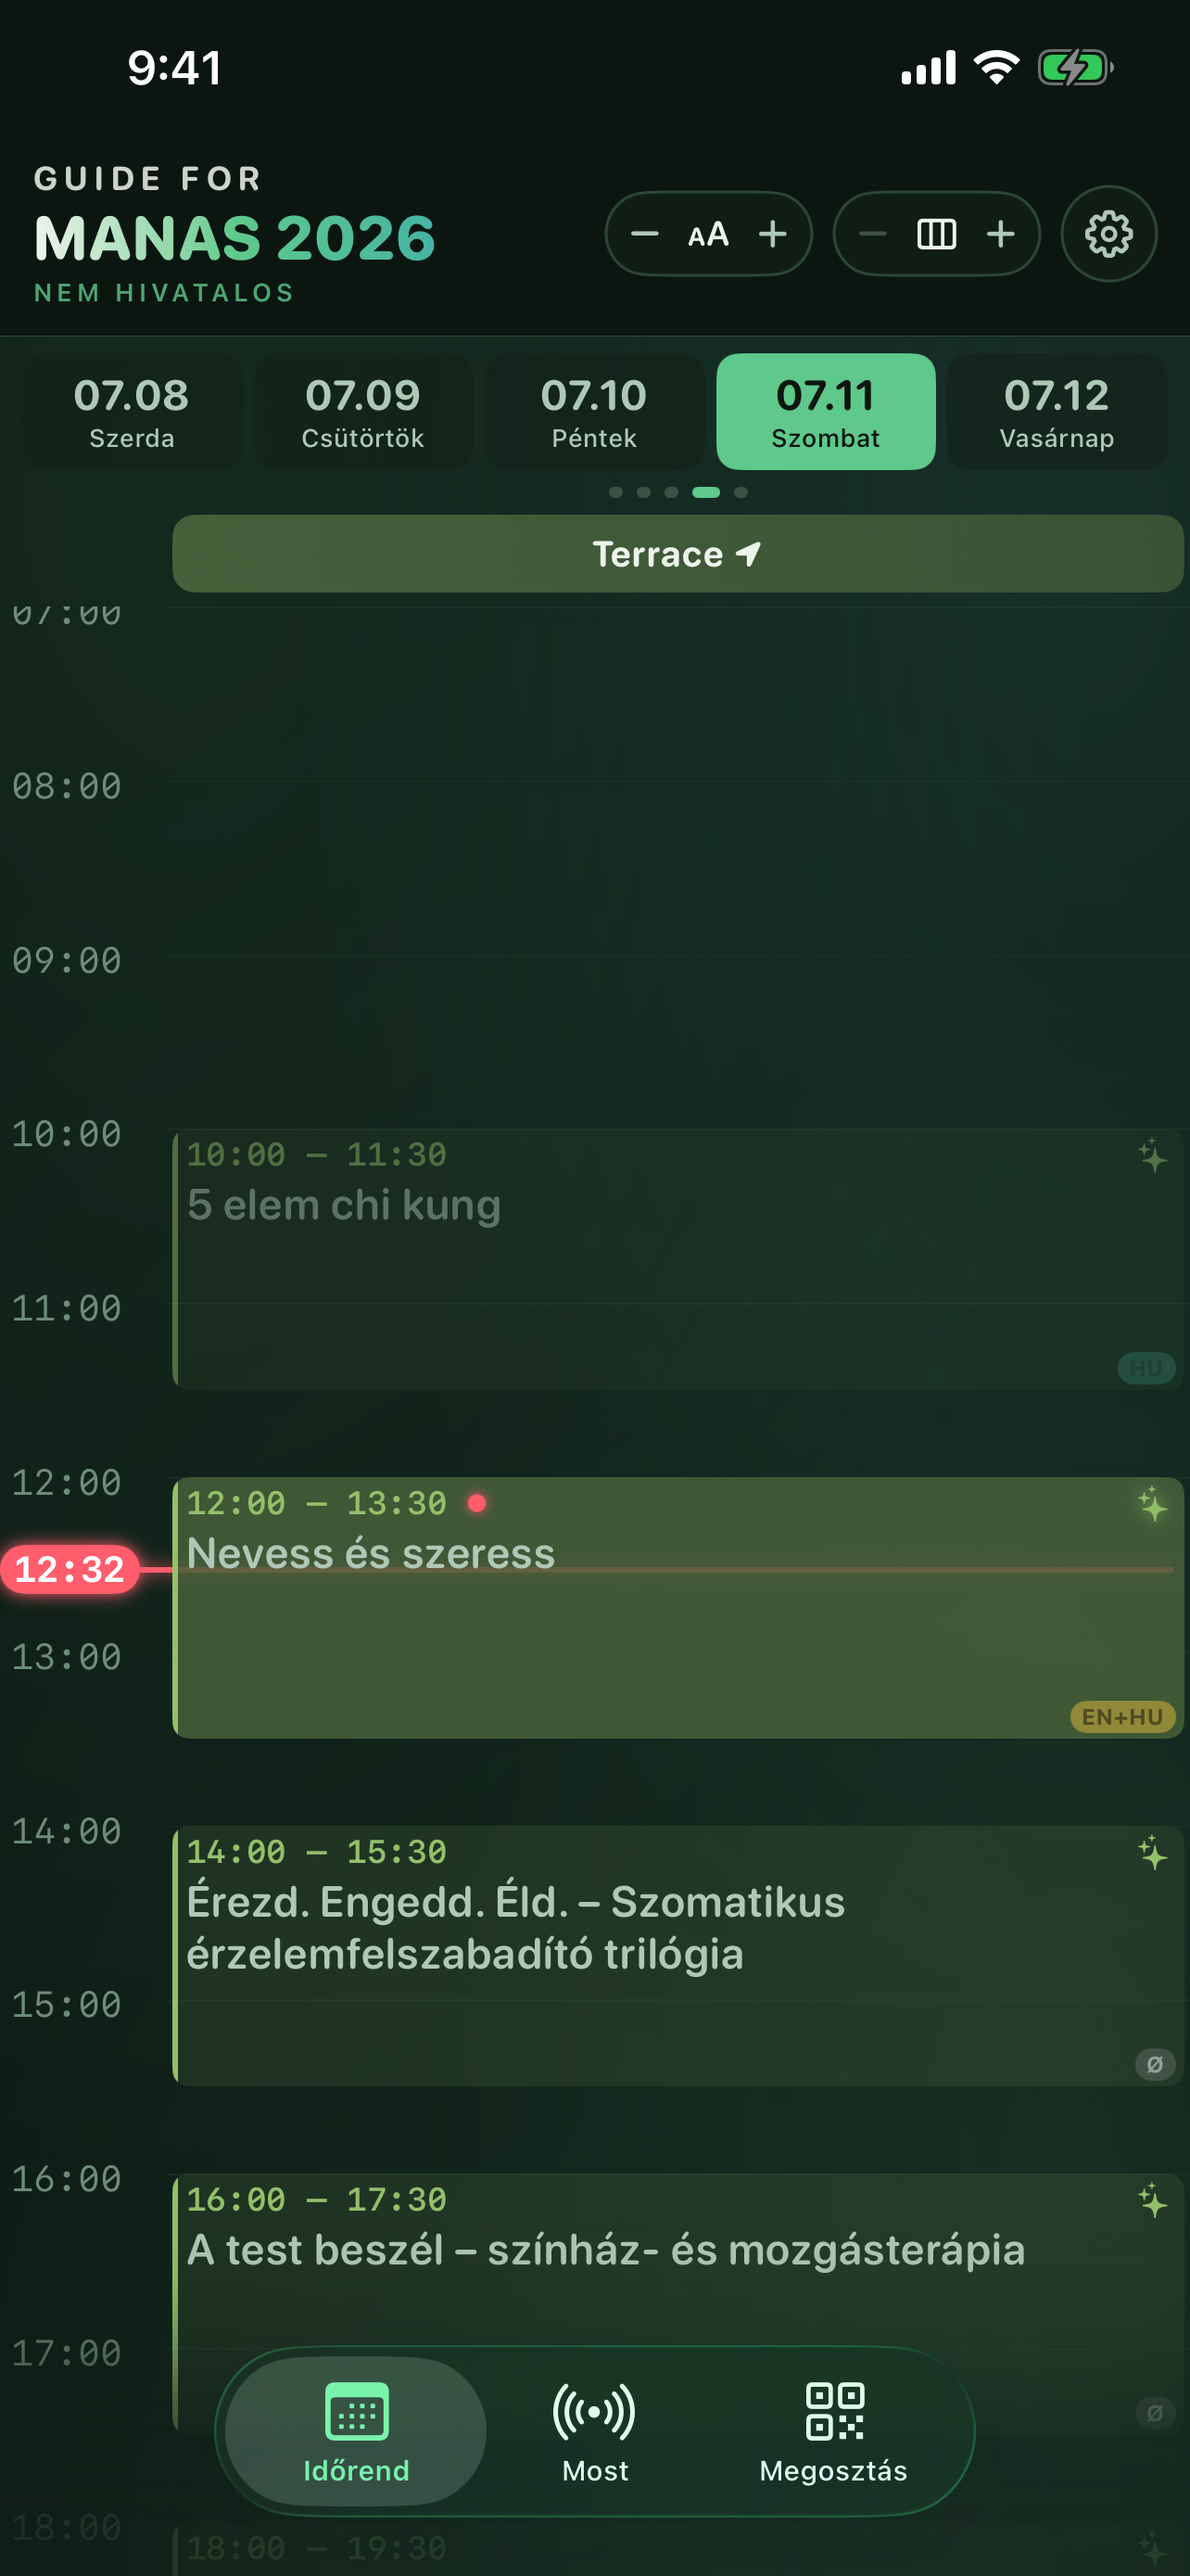
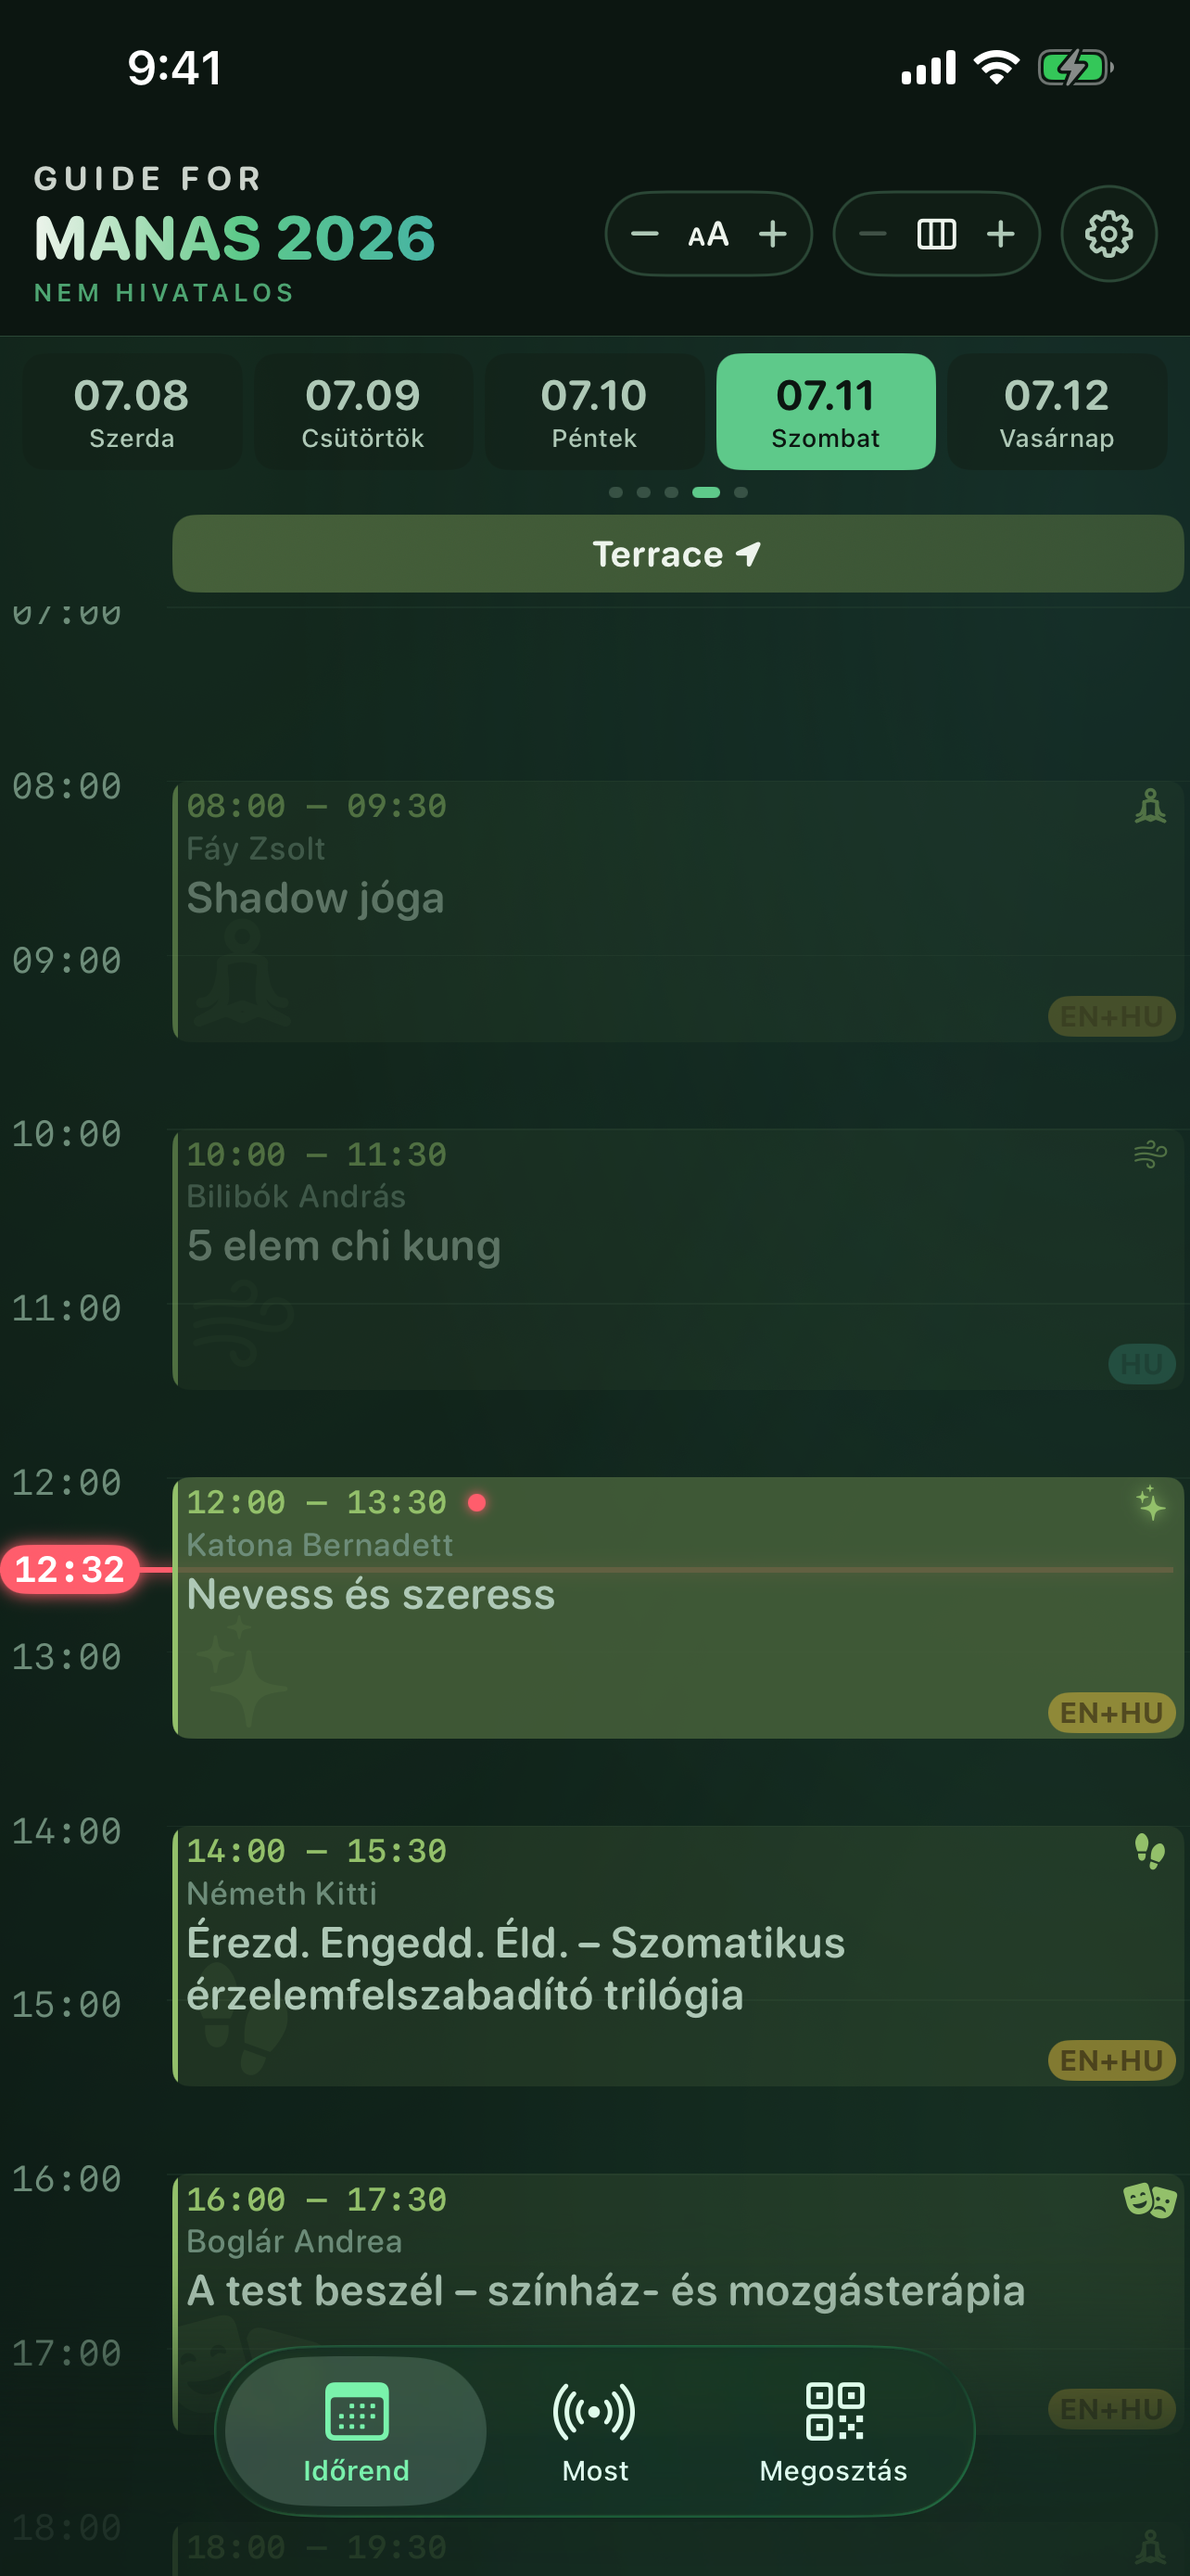
docs(ios): update store listing and screenshots for 1.2
Rework the App Store listing for the 1.2 update over the live 1.1: a v1.2
What's New (performer names, per-type icons, refined watch layout), keeping
v1.1 as history; add the performer/icon line to the description; and retarget
the review notes and build line (build 11 → 1.2, live is 1.1). Regenerate all
iPhone and watch screenshots to show the new artist names and category icons.

diff --git a/apple/STORE_LISTING.md b/apple/STORE_LISTING.md
@@ -43,7 +43,7 @@ Nem hivatalos, rajongói kalauz a Manas 2026 fesztiválhoz: teljes időrend, él
 
 ## Description (≤4000)
 
-### English (2643 chars)
+### English (2792 chars)
 
 This is an unofficial, fan-made guide. It is not affiliated with, endorsed by, or sponsored by the MANAS festival or its organizers.
 
@@ -52,6 +52,7 @@ Guide for MANAS 2026 is an independent companion app for visitors to the Manas 2
 THE WHOLE PROGRAMME
 - Browse the complete timetable across every stage: Portal, Field, Bowl, Terrace and Mandala.
 - A time-proportional grid on iPhone lays the day out to scale, so overlaps and gaps are easy to see at a glance.
+- Every act shows its performer and a type icon — live music, ceremonies, sound baths, drums, yoga, workshops and more — so the day is easy to read.
 - Scroll horizontally between stages and tap any act for the details.
 
 NOW VIEW
@@ -86,7 +87,7 @@ This app is made by an independent fan and is not the official festival app. "MA
 
 Questions or feedback? Email manas2026@torma.ai
 
-### Magyar (2885 chars)
+### Magyar (3047 chars)
 
 Ez egy nem hivatalos, rajongók által készített kalauz. Nem áll kapcsolatban a MANAS fesztivállal vagy annak szervezőivel, azok nem támogatják és nem szponzorálják.
 
@@ -95,6 +96,7 @@ A Guide for MANAS 2026 egy független kísérőalkalmazás a magyarországi Mana
 A TELJES PROGRAM
 - Böngészd a teljes időrendet minden színpadon: Portal, Field, Bowl, Terrace és Mandala.
 - iPhone-on idő-arányos rács mutatja a napot, így az átfedések és a szünetek egy pillantással átláthatók.
+- Minden programnál ott a fellépő neve és egy típus-ikon — élő zene, szertartások, hangfürdő, dobok, jóga, workshopok és még több —, így a nap könnyen olvasható.
 - Görgess vízszintesen a színpadok között, és koppints bármelyik fellépőre a részletekért.
 
 MOST NÉZET
@@ -129,7 +131,29 @@ Ezt az alkalmazást egy független rajongó készítette, és nem a hivatalos fe
 
 Kérdés vagy visszajelzés? Írj a manas2026@torma.ai címre.
 
-## What's New — v1.1 (current, ≤4000)
+## What's New — v1.2 (current, ≤4000)
+
+### English (579 chars)
+
+What's new in 1.2:
+
+- Artists, front and centre: each act now shows the performer's name alongside the title, so you can see who is playing at a glance.
+- A clearer programme: every type of happening has its own icon — live music, ceremonies, sound baths and singing bowls, drums and handpan, yoga, workshops, dance, theatre and talks.
+- A more refined Apple Watch layout: the now-playing card gives the artist and title more room, with a subtle festival watermark behind them.
+
+Unofficial, fan-made guide, not affiliated with the festival. Feedback welcome at manas2026@torma.ai
+
+### Magyar (593 chars)
+
+Újdonságok az 1.2-ben:
+
+- A fellépők a középpontban: minden program mostantól a cím mellett a fellépő nevét is mutatja, így egy pillantással látod, ki játszik.
+- Átláthatóbb program: minden programtípusnak saját ikonja van — élő zene, szertartások, hangfürdő és hangtálak, dobok és handpan, jóga, workshopok, tánc, színház és előadások.
+- Csiszoltabb Apple Watch elrendezés: az éppen játszó kártyán több hely jut a fellépőnek és a címnek, mögöttük finom fesztivál-vízjellel.
+
+Nem hivatalos, rajongói kalauz, nem áll kapcsolatban a fesztivállal. Visszajelzést a manas2026@torma.ai címre várunk.
+
+## What's New — v1.1 (history)
 
 ### English (567 chars)
 
@@ -183,7 +207,7 @@ Ez egy nem hivatalos, rajongói kalauz, nem áll kapcsolatban a fesztivállal. V
 
 Unofficial, fan-made companion guide for the Manas 2026 music festival (Hungary, July 2026). Not affiliated with, endorsed by, or sponsored by the festival or its organizers; "MANAS 2026" is used referentially to indicate which festival this guide covers.
 
-New in this version (1.1): a Share feature. The iPhone app gains a Share tab and the Apple Watch app a share QR in its toolbar. The QR encodes a public link (https://manas.torma.ai/get) that simply routes whoever scans it — to the App Store on an iPhone, or to the web version on any other device; the system share sheet hands out https://manas.torma.ai/app. This only generates a QR image / opens the standard iOS share sheet — it collects and transmits no user data, so the privacy answers are unchanged. This version also adds opening-day and post-festival ("GROUNDING") states to the Now view.
+New in this version (1.2): performer names and per-type icons on the schedule, plus refinements to the Apple Watch layout. These are display-only and drawn from the same public schedule data — no new data is collected, and the App Privacy answers are unchanged. (The Share feature — a Share tab and an Apple Watch share QR encoding the public link https://manas.torma.ai/get, which only routes the scanner to the App Store or the web version — shipped in 1.1 and is unchanged.)
 
 No account or login required — no sign-up, no authentication of any kind. The app is free with no ads and no in-app purchases.
 
@@ -205,5 +229,5 @@ The submission includes an embedded watchOS app and watch widgets/complications 
   the build (HTTPS-only, exempt). No "Missing Compliance".
 - **Pricing:** Free.
 - **Availability:** your choice (all countries, or restrict to Hungary).
-- **Build:** attach build 11 to the 1.1 version (live is 1.0, build 5).
+- **Build:** attach build 11 to the 1.2 version (live is 1.1).
 - **Version release:** Manual (recommended) so you control go-live timing.
